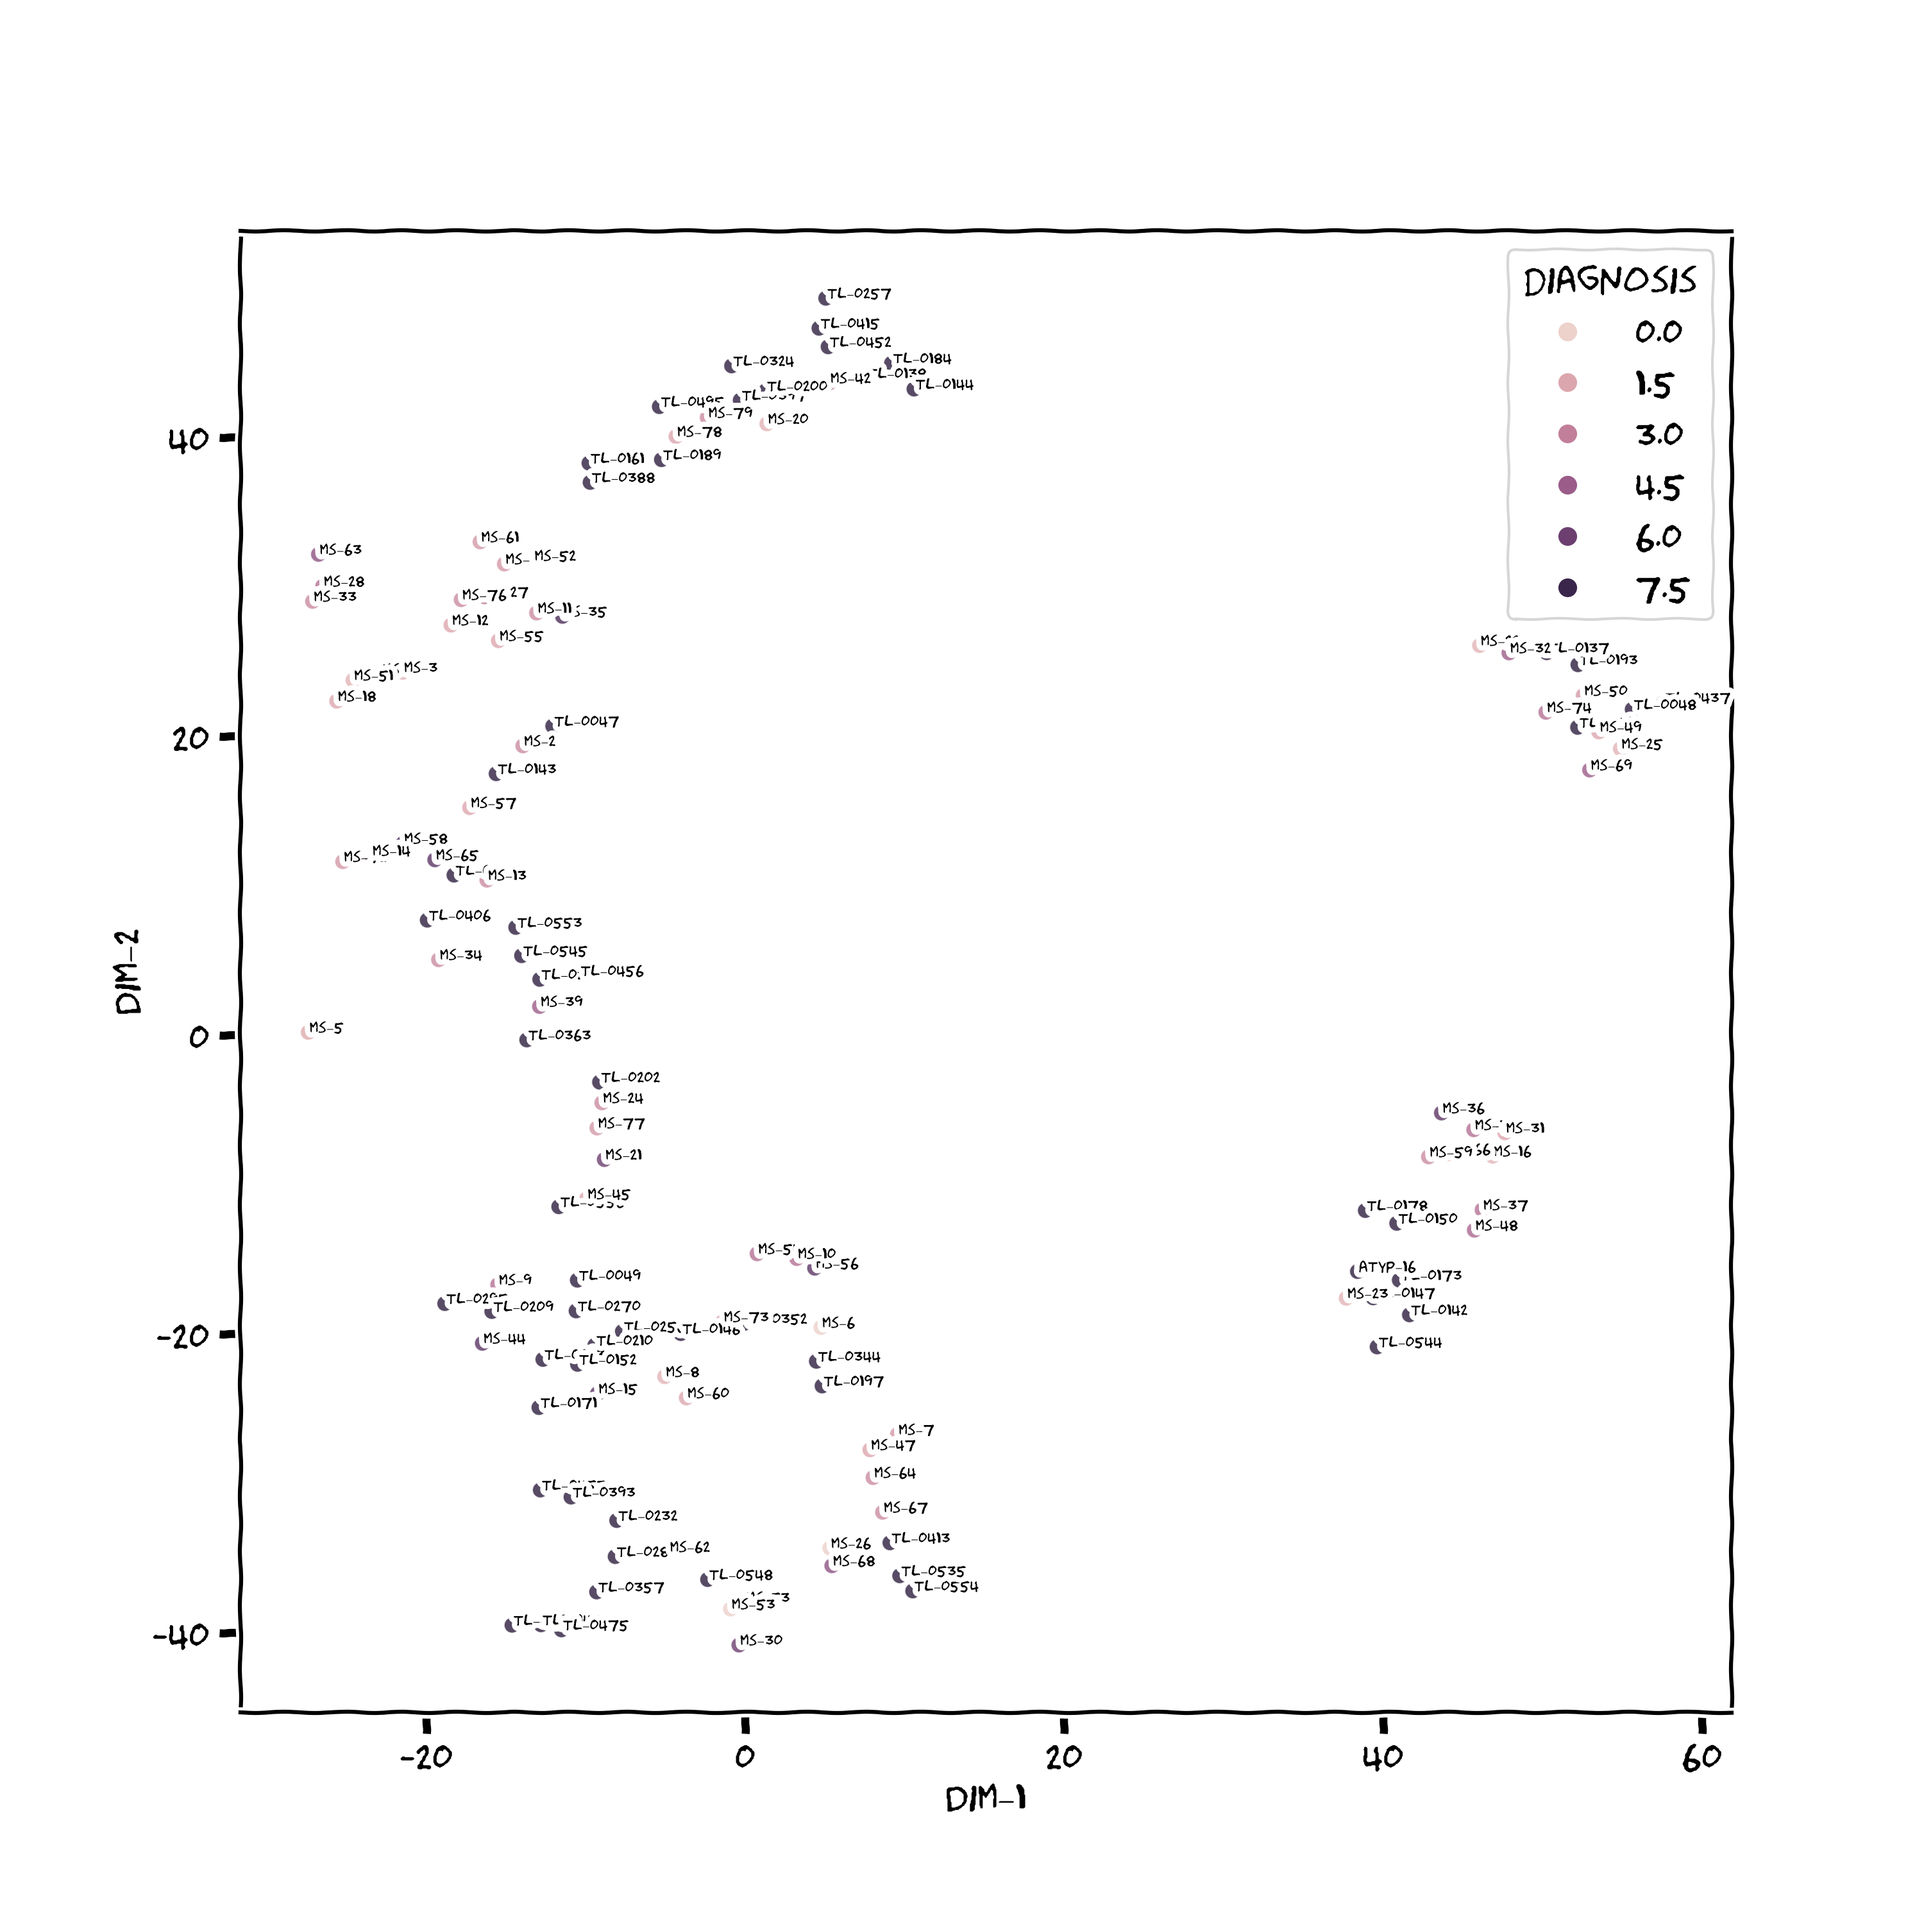
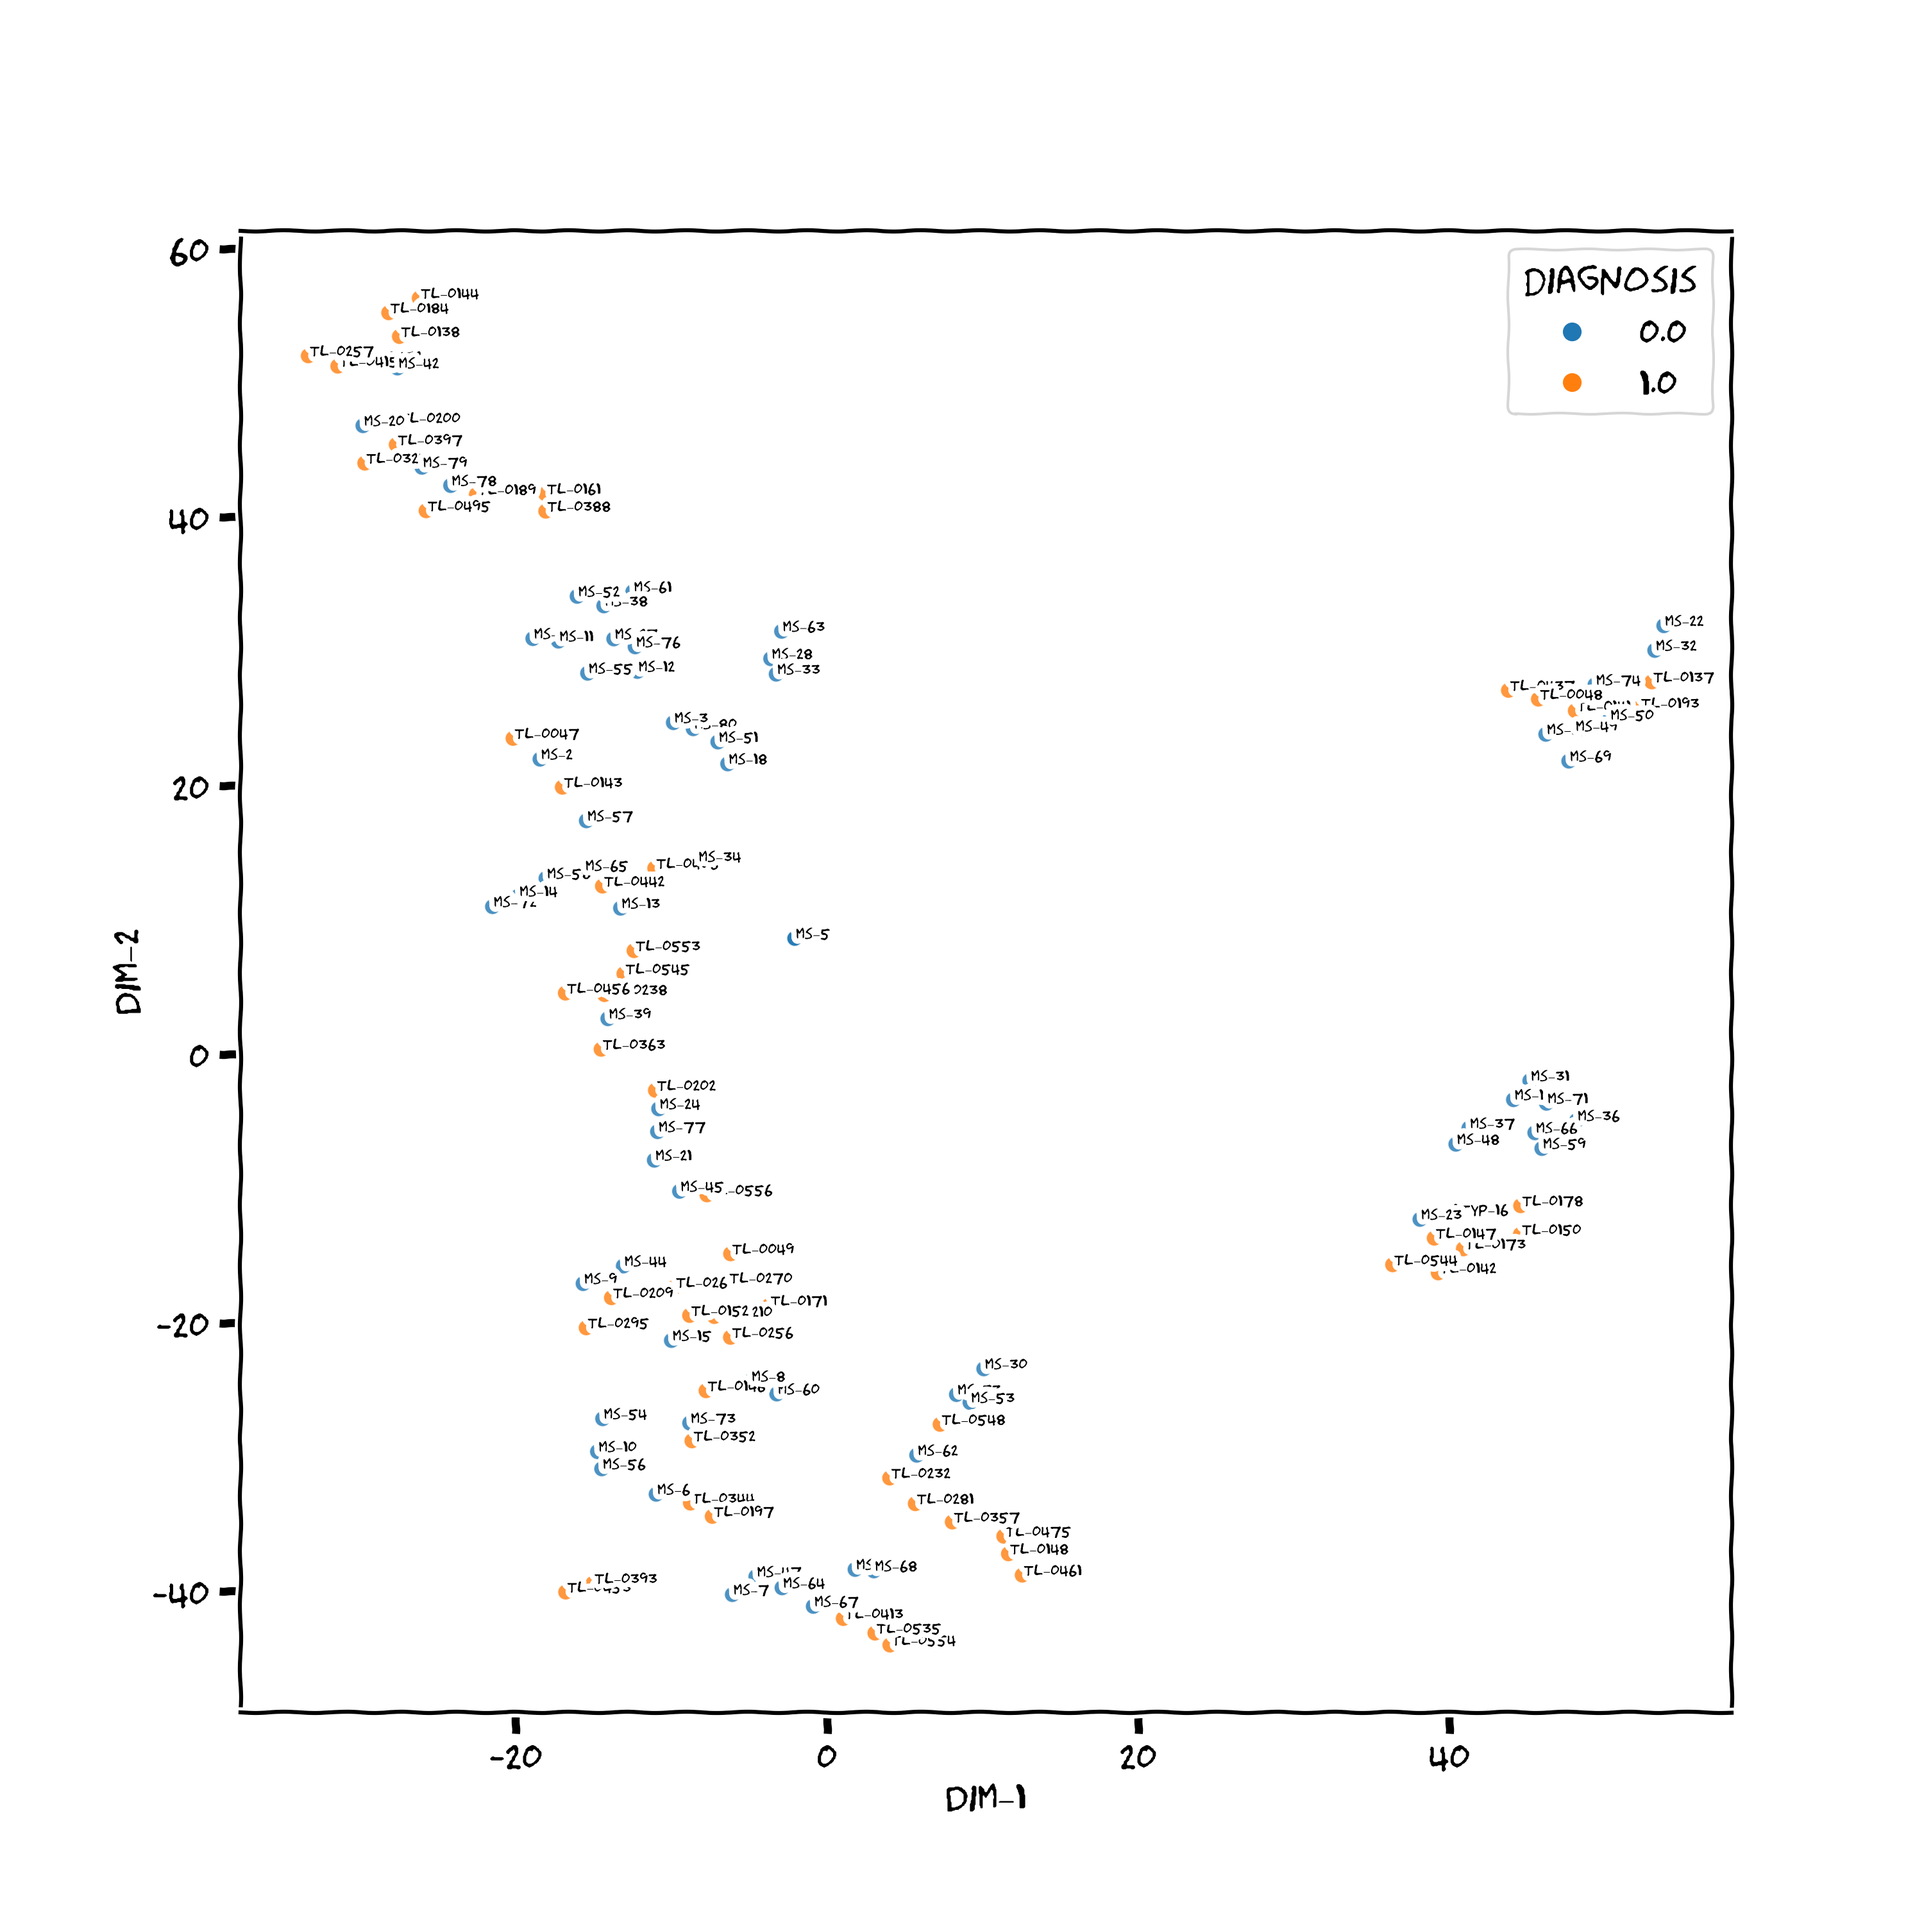
altered tsne

diff --git a/tsne.py b/tsne.py
@@ -24,13 +24,14 @@ def main():
     ml_dataframe['diagnosis'] = [1 if dx =="MS-TN" else 0 for dx in ml_dataframe['diagnosis']]
     ml_dataframe['sex'] = [1 if sex=="f" else 0 for sex in ml_dataframe["sex"]]
     ml_dataframe['duration_categories'] = ['<5' if duration <5 else '5-10' if duration < 10 else '10-15' if duration <15 else '15-20' if duration<20 else '>20' for duration in ml_dataframe['duration_of_ms']]
+    ml_dataframe['edss_categories'] = ['0-1.5' if edss <1.5 else '1.5-3' if edss < 3 else '3-4.5' if edss <4.5 else '4.5-6' if edss<6 else '6-7.5' if edss<=7.5 else 'MS-TN' for edss in ml_dataframe['edss']]
 
     # set condition
-    #condition = list(ml_dataframe["diagnosis"])
-    #condition = np.array(condition)
+    condition = list(ml_dataframe["diagnosis"])
+    condition = np.array(condition)
 
     # drop unnecessary columns
-    morphological_data = ml_dataframe.drop(columns=['id', 'age', 'sex', 'diagnosis', 'duration_of_ms', 'duration_categories', 'duration_of_pain', 'side_of_pain','edss'])
+    morphological_data = ml_dataframe.drop(columns=['id', 'age', 'sex', 'diagnosis', 'duration_of_ms', 'duration_categories', 'duration_of_pain', 'side_of_pain','edss', 'edss_categories'])
     morphological_data = morphological_data[np.random.default_rng(seed=42).permutation(morphological_data.columns.values)]
 
     # configure tsne model
@@ -39,12 +40,13 @@ def main():
     tsne_data = tsne.fit_transform(morphological_data)
 
     # create dataframe
-    tsne_data = np.vstack((tsne_data.T, ml_dataframe["edss"])).T
-#add edss, age, sex, duration of MS binned
-
+    tsne_data = np.vstack((tsne_data.T, ml_dataframe["diagnosis"])).T    
     tsne_df = pd.DataFrame(data=tsne_data, columns=("Dim_1", "Dim_2", "diagnosis"))
+    tsne_df["edss_categories"] = ml_dataframe["edss_categories"]
+    tsne_df["age"] = ml_dataframe["age"]
+    tsne_df["sex"] = ml_dataframe["sex"]
+    tsne_df["duration_categories"] = ml_dataframe["duration_categories"]
 
-    
     matplotlib.font_manager.findfont('humor sans')
 
     # plot
@@ -56,9 +58,16 @@ def main():
       plt.savefig('out/tsne.png', dpi=300)
 
     with plt.xkcd():
-       fig, ax = plt.subplots(2,2 , figsize=(10,10))
-        sns.scatterplot(ax=ax[0,0], data=tsne_df, x="Dim_1", y="Dim_2", hue='diagnosis', sizes = 5, alpha=0.8)
-        sns.scatterplot(ax=ax[0,1], data=tsne_df, x="Dim_1", y="Dim_2", hue='diagnosis', sizes = 5, alpha=0.8)
+      fig, ax = plt.subplots(2, 2, figsize=(15, 15))
+      sns.scatterplot(ax=ax[0, 0], data=tsne_df, x="Dim_1", y="Dim_2", hue='age', sizes=5, alpha=0.8)
+      ax[0, 0].legend(loc='upper right', title='age', fontsize='xx-small')
+      sns.scatterplot(ax=ax[0, 1], data=tsne_df, x="Dim_1", y="Dim_2", hue='sex', sizes=5, alpha=0.8)
+      ax[0, 1].legend(loc='upper right', title='sex', fontsize='xx-small')
+      sns.scatterplot(ax=ax[1, 0], data=tsne_df, x="Dim_1", y="Dim_2", hue='duration_categories', sizes=5, alpha=0.8)
+      ax[1, 0].legend(loc='upper right', title='duration', fontsize='xx-small')
+      sns.scatterplot(ax=ax[1, 1], data=tsne_df, x="Dim_1", y="Dim_2", hue='edss_categories', sizes=5, alpha=0.8)
+      ax[1, 1].legend(loc='upper right', title='edss', fontsize='xx-small')
+      plt.savefig('out/tsne_subplots.png', dpi=300)
 
 
  
